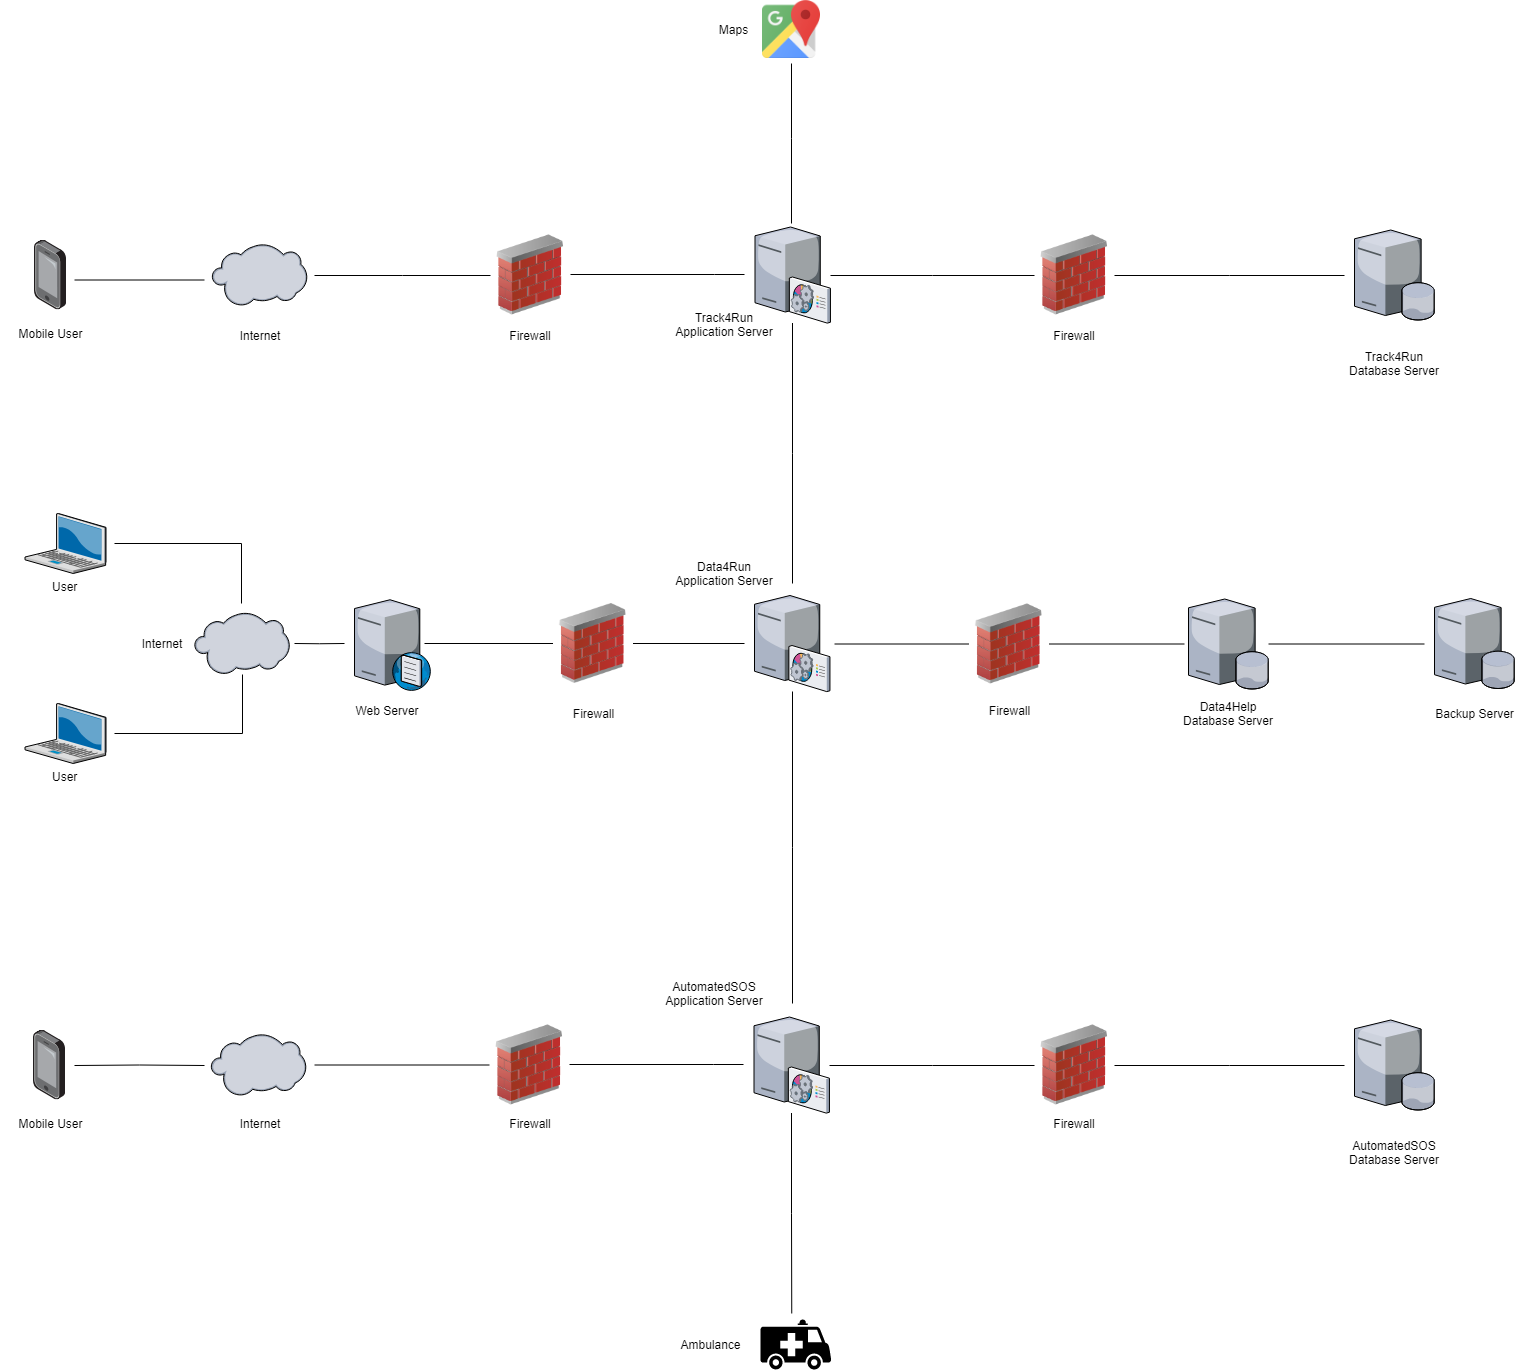
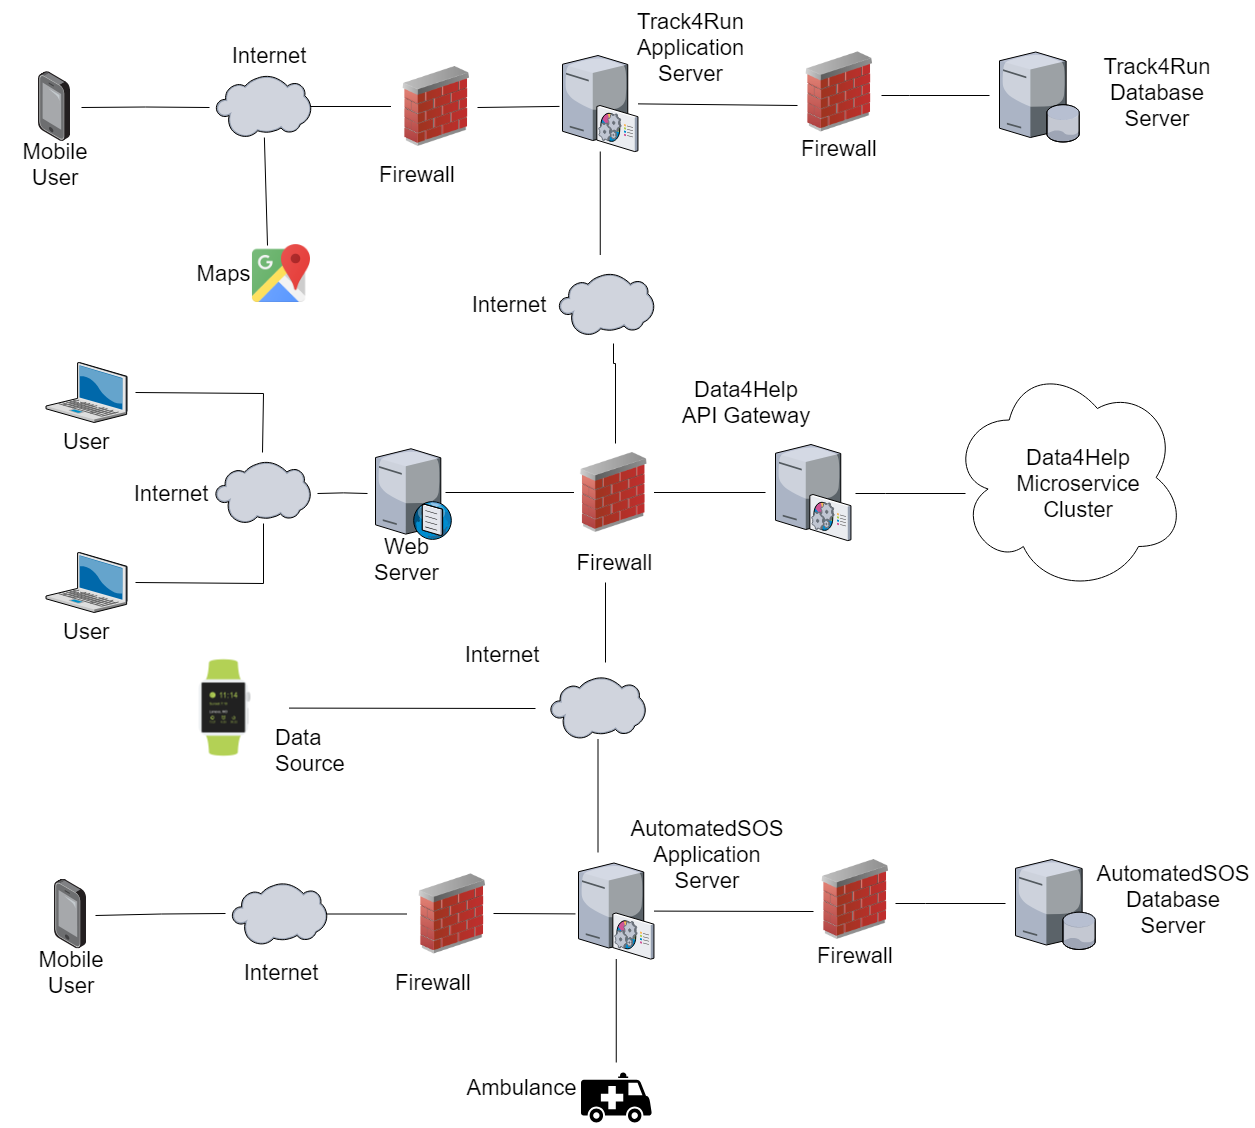
[DD] Added microservice architecture

diff --git a/DD/sections/architecturalDesign.tex b/DD/sections/architecturalDesign.tex
@@ -1,5 +1,7 @@
 \subsection{Overview}
-As stated above, the system is divided into three subsystems, which are represented in the following figure.
+As stated above, each subsystem has to accomplish its own goal. In particular, we can see AutomatedSOS and Track4Run as simple, three-tier applications, while Data4Help should display a more complex, scalability-oriented architecture.
+
+The figure below gives a general overview of a possible implementation of the system.
 
 \FloatBarrier
 
@@ -7,70 +9,156 @@ As stated above, the system is divided into three subsystems, which are represen
 	\centering
 	\includegraphics[width=\columnwidth]{physicalArchitectureDiagram.png}
 	\caption{General Architecture}
-\end{figure}
+\end{figure}
+
 
 \FloatBarrier
 
-In particular, Data4Help subsystem can be accessed via browser by users and third parties, but also using the dedicated APIs (for data-sources and third parties). It is designed as a three-tier application with a thin browser client and a thick back-end, in which data processing, protection and storage are critical functions.
+As displayed in this figure, Data4Help subsystem's services can be accessed by many channels, including a web interface for users and APIs for data-sources and third-parties.
+Since the data-sources provide real-time data from the user's devices, it is predictable that this flow of information will soon grow into a huge number of requests, so this subsystem has to be designed to quickly accomplish horizontal scaling and maintain high availability even in extreme conditions.
+For this reason, a Microservice based architecture enforced with Message Queues and scalable databases should be adopted, as will be described in the following sections. Also an API Gateway is used to access all Data4Help interfaces, so to easily manage authentication and load balancing from the very first moment of any request.
 
-AutomatedSOS and Track4Run instead are designed as applications with a thick client (i.e. smart-phone and smart-watch apps), a lightweight back-end server and a storage module. This design has been chosen because it is completely modular on one hand, since the two application's business logic is separated from Data4Help's one, but guarantees on the other hand a fast and reliable service provided by the servers, leaving the full responsibility of the presentation part to the mobile application. This separation also guarantees a good maintainability of the system and good performances on the mobile side, where power consumption and CPU usage can be an issue.
+AutomatedSOS and Track4Run instead are designed as applications with a thick client (i.e. smart-phone and smart-watch apps), a lightweight back-end server and a storage module. This design has been chosen because it is completely modular on one hand, since the two application's business logic is separated from Data4Help's one, but guarantees on the other hand a fast and reliable service provided by the servers, leaving the full responsibility of the presentation part to the mobile application. The separation of presentation and business logic also guarantees the maintainability of the system and good performances on mobile devices, where power consumption and CPU usage can be an issue.
 
 \subsection{High Level Architecture}
+
+From the component point of view, each subsystem can be divided into \textit{back-end} components, which are responsible of carrying out the business logic of the subsystem, and \textit{front-end} components, which provide a presentation layer to end users and SDKs to external developers who want to access the system's services.
+Also, some external components are used to provide some of the services offered by the system.
+In the following diagram, the main components and interfaces are highlighted, to give a general idea of the design of the system.
+It must be noted that in this diagram components and \textit{modules} represent a set of services grouped together, and that internal interaction between modules is not shown for sake of simplicity: the complete description of all the modules and internal interfaces can be found in the following sections.
 
 \FloatBarrier
 \begin{figure}[!h]
 	\centering
 	\includegraphics[width=\columnwidth]{ComponentDiagrams-Total.png}
 	\caption{High Level Components}
-\end{figure}
+\end{figure}
 \FloatBarrier
 
+As can be seen, the Data4Help back-end offers three main functionalities:
 
+\begin{itemize}
+	\item \textit{User Management}: provides an interface for managing the user account and configure his data-sources. This interface is exploited by a \textit{Web Application} that can be accessed via web browser.
+	\item \textit{Data Acquisition}: provides the interface for collecting data from data-sources. A proprietary \textit{Data Source SDK} can be offered to external developers to integrate the use of this interface into their software and send data from external devices to Data4Help.
+	\item \textit{User Management}: enables third parties to make requests on the data received by the subsystem. This interface is used by \textit{Track4Run} and \textit{AutomatedSOS} back-ends, but it can also be accessed by any other third party via the dedicated \textit{Third Party SDK}.
+\end{itemize}
+
+The other two back-ends are mainly responsible of exploiting Data4Help's serviced to offer an interface to the user's Application. 
+For AutomatedSOS, an external ambulance calling interface is also needed by the back-end to fulfill its goal, while in Track4Run a Maps Service such as \textit{Google Maps} should be accessed directly from the Application to minimize latency and bandwidth occupation in the communication between the client and the server.
+
+Another definition of the services offered by the system can be found in the figure below, which highlights the dependencies between the Data4Help system and its actors and provides a list of the services consumed internally and externally by the system.
+
+\FloatBarrier
+\begin{figure}[!h]
+	\centering
+	\includegraphics[width=0.8\columnwidth]{ComponentDiagrams-Layers.png}
+	\caption{High Level Components}
+\end{figure}
+\FloatBarrier
+
+\newpage
 \subsection{Component View}
 
 
+\subsubsection{Data4Help}
+
+When considering the architecture for Data4Help, the first thing to take in account is scaling and availability. Data-sources can produce a lot of traffic, and vital services built on top of this subsystem, such as AutomatedSOS, bring the need for the system to handle all the data without losses, latency or service unavailability.
+Bearing this in mind, the general idea of this subsystem's design is to exploit the new patterns of microservices and messages queues. 
+
+The main focus of this design is that every service should be replicable in any desired number of instances (\textit{horizontal scaling}) without the need of changing other parts of the system. For this to be possible, the system must be provided with the following capabilities:
+
 \begin{itemize}
-	\item \textbf{Data4Help}
+	\item \textit{Container Environment}
+	\item \textit{Container Orchestration}
+	\item \textit{Load Balancing}
 \end{itemize}
+
+Future developments of the system can also add performance monitoring services, to test in real-time the stress level of the system and eventually deploy new instances of some services where needed.
+
+This said, here is a detailed view of the components of this subsystem: each service is to be considered as independently deployed in a container, which is managed by the \textit{orchestrator}. For the sake of simplicity, only the interaction between developed components is highlighted, while the components dedicated to load balancing, orchestration and services deployment are considered to be already present as part of the \textit{API Gateway}.
+
 
 \FloatBarrier
 \begin{figure}[!h]
 	\centering
 	\includegraphics[width=\columnwidth]{ComponentDiagrams-Data4Help.png}
 	\caption{Data4Help Components}
-\end{figure}
+\end{figure}
+
 \FloatBarrier
 
+The internal microservices that have been identified are:
+\begin{itemize}
+	\item \textbf{Authentication Service}
+	\item \textbf{User Service}
+	\item \textbf{Receiver}
+	\item \textbf{Request Manager}
+	\item \textbf{Sender}
+	\item \textbf{Subscription Service}
+	\item \textbf{Anonymization Service}
+\end{itemize}
 
+This subsystem shall also use messaging between microservices where asyncronous communication is possible, in particular:
 
 \begin{itemize}
-	\item \textbf{AutomatedSOS}
+	\item \textbf{New Data Queue}
+	\item \textbf{New Request Queue}
+	\item \textbf{Notification Queue}
+	\item \textbf{Sending Queue}
 \end{itemize}
+
+All other components shall use synchronous protocols, such as RESTful APIs.
+
+\subsubsection{AutomatedSOS}
 
 \begin{figure}[!h]
 	\centering
 	\includegraphics[width=\columnwidth]{ComponentDiagrams-AutoSOS.png}
 	\caption{AutomatedSOS Components}
-\end{figure}
+\end{figure}
+
 \FloatBarrier
 
 
-
-\begin{itemize}
-	\item \textbf{Track4Run}
-\end{itemize}
+\subsubsection{Track4Run}
 
 \FloatBarrier
 \begin{figure}[!h]
 	\centering
 	\includegraphics[width=\columnwidth]{ComponentDiagrams-Track4Run.png}
 	\caption{Track4Run Components}
-\end{figure}
+\end{figure}
 \FloatBarrier
 
 
+
 \subsection{Deployment View}
+
+\FloatBarrier
+\begin{figure}[!h]
+	\centering
+	\includegraphics[angle=90, height=0.9\textheight]{deploymentDiagram.png}
+	\caption{Track4Run Components}
+\end{figure}
+\FloatBarrier
+
 \subsection{Runtime View}
+- Auth
+- One-shot req
+- Subscription req
+- New data arrives
+
 \subsection{Component Interfaces}
 \subsection{Selected Architectural Styles and Patterns}
+- stateless
+- microservice
+- monolithic
+- token auth
+- loose coupling
+- event driven and message queues
+- server side service discovery
 \subsection{Other Design Decisions}
+- NOSQL DB
+- JWT
+- REST
+- RabbitMQ

diff --git a/DD/sections/introduction.tex b/DD/sections/introduction.tex
@@ -18,12 +18,21 @@ On the other hand, AutomatedSOS must monitor its users and call an ambulance in 
 Finally, Track4Run gives the possibility to organize, join and watch run events. For this reason, user-friendliness and user experience are the main concerns of this subsystem, which will be developed to be easy to access and navigate in all its many functionalities.
 
 \subsection{Definitions, Abbreviations and Acronyms}
+\subsubsection{Definitions}
+\begin{itemize}
+	\item \textbf{Microservice}:
+	\item \textbf{Orchestrator}: 
+	\item \textbf{Container}: 
+	\item \textbf{API Gateway}:
+	\item \textbf{Firewall}:
+\end{itemize}
+
 \subsubsection{Acronyms}
 \begin{itemize}
 	\item \textbf{RASD}: Requirement Analysis and Specification Document
 	\item \textbf{API}: Application Programming Interface
-	\item \textbf{GPS}: Global Positioning System
-	\item \textbf{GDPR}: General Data Protection Regulation
+	\item \textbf{SDK}: Software Development Kit
+	\item \textbf{DB}: Data Base
 \end{itemize}
 
 \subsubsection{Abbreviations}

diff --git a/DD/sections/effortSpent.tex b/DD/sections/effortSpent.tex
@@ -8,8 +8,8 @@
          \hline
          Component Brainstorming & 4 Hours \\
          Requirements Traceability & 4 Hours \\
-         Subject 3 & Hours \\
-         Subject 4 & Hours \\
+         ER Diagram & 2 Hours \\
+         Interfaces & 4 Hours \\
          Subject 5 & Hours \\
          Subject 6 & Hours \\
         \hline
@@ -25,9 +25,9 @@
          \hline
          Component Brainstorming & 4 Hours \\
          Requirements Traceability & 5 Hours \\
-         Subject 3 & Hours \\
-         Subject 4 & Hours \\
-         Subject 5 & Hours \\
+         ER Diagram & 2 Hours \\
+         Interfaces & 4 Hours \\
+         Microservices Deployment & 5 Hours \\
          Subject 6 & Hours \\
         \hline
     \end{tabu}
@@ -41,7 +41,7 @@
          \multicolumn{2}{|c|}{Andrea Biscontini} \\
          \hline
         Requirements Traceability & 5 Hours \\
-         Subject 2 & Hours \\
+         Interfaces & 4 Hours \\
          Subject 3 & Hours \\
          Subject 4 & Hours \\
          Subject 5 & Hours \\
